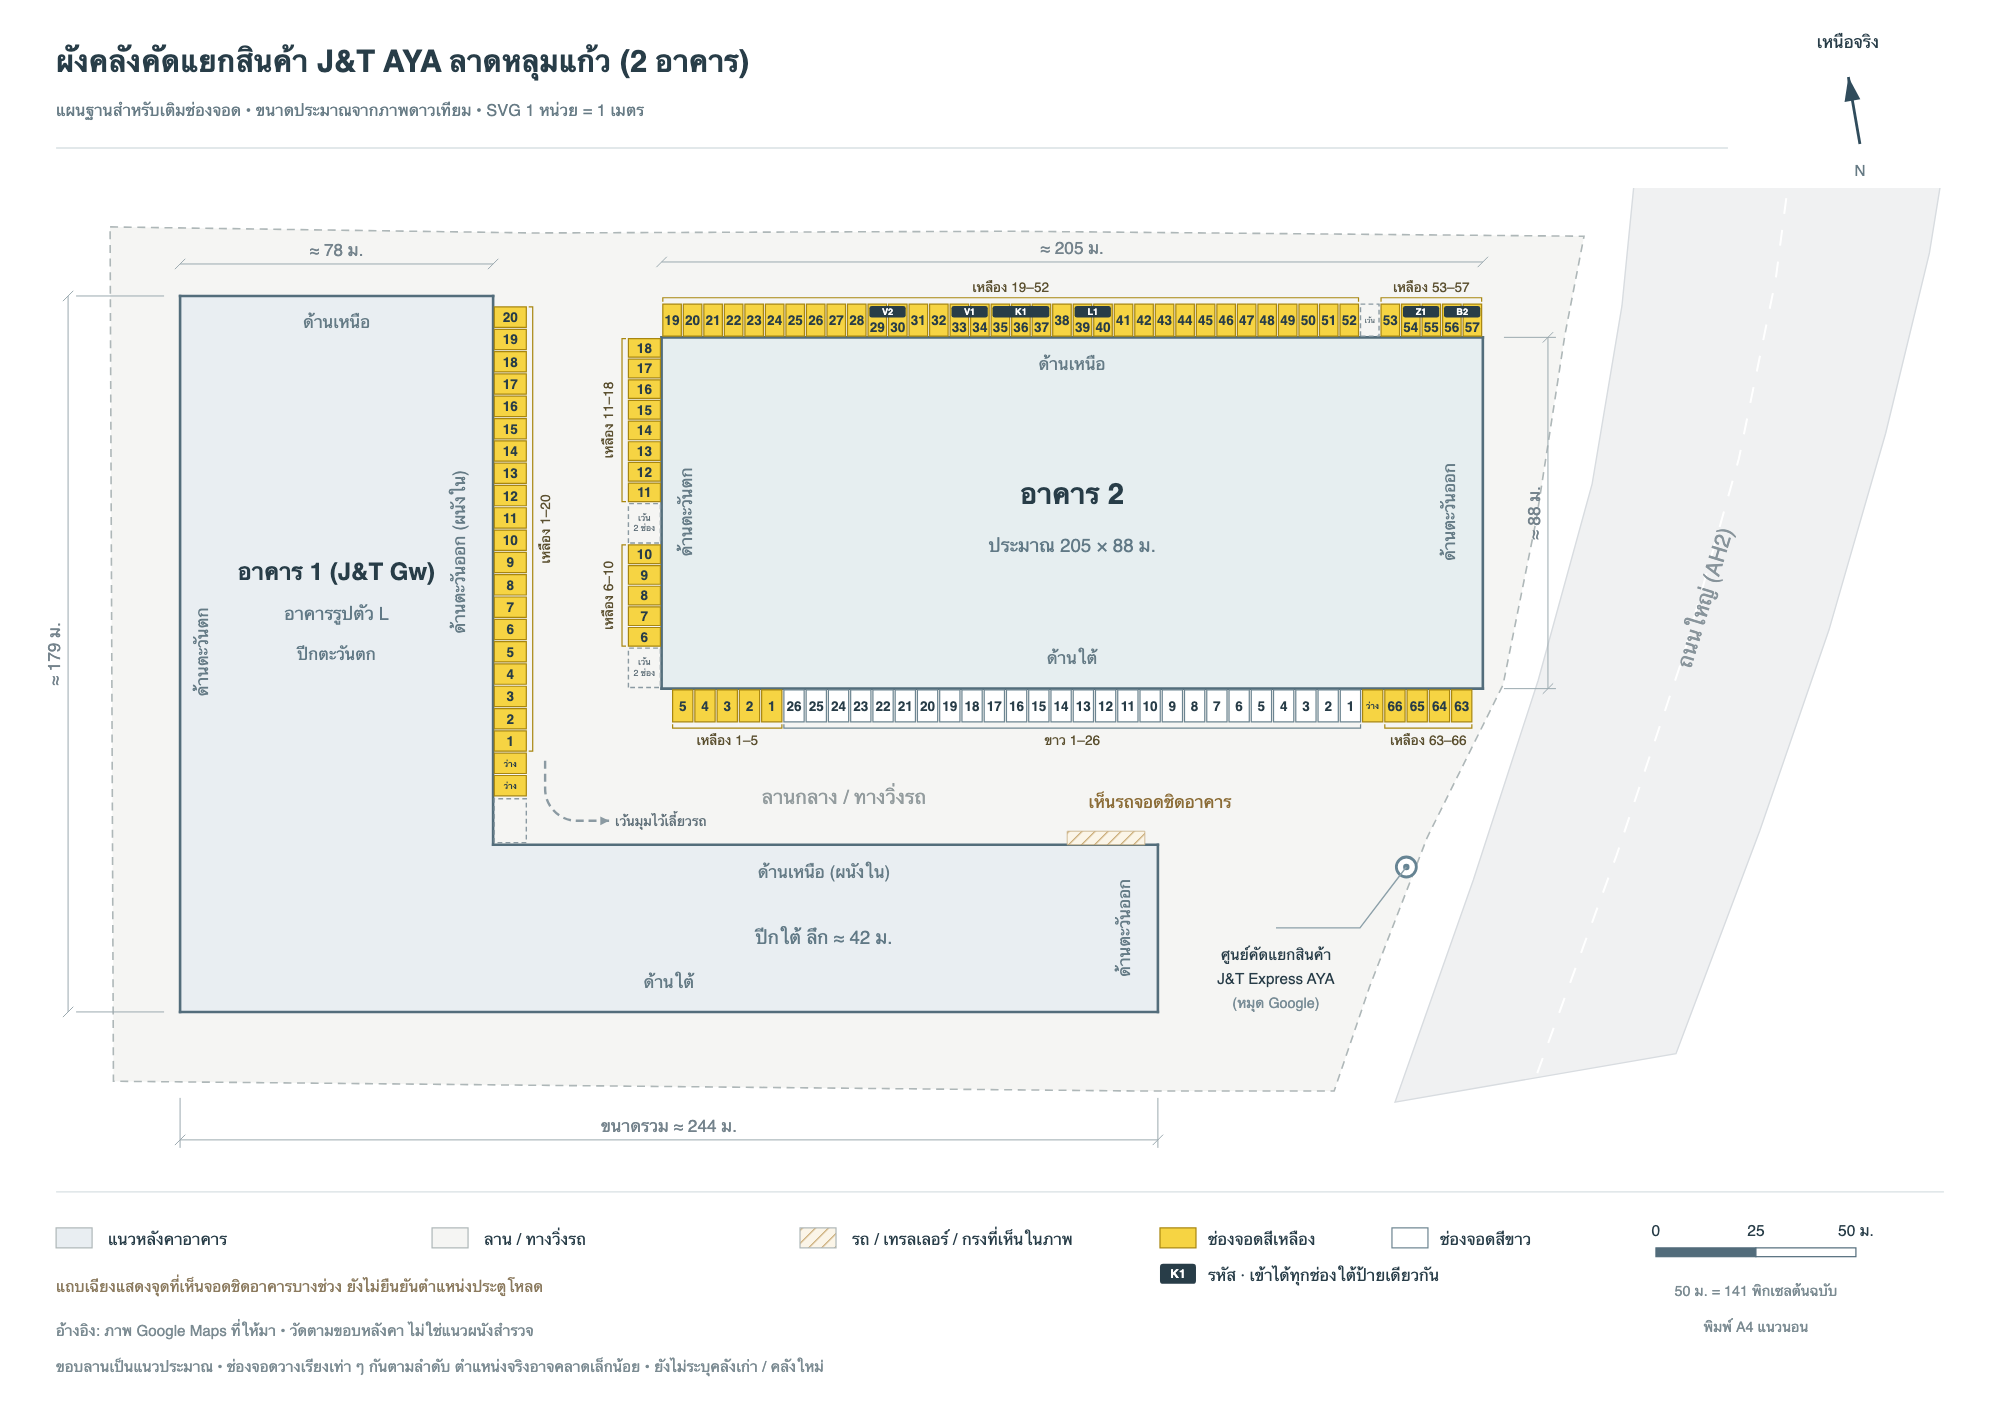
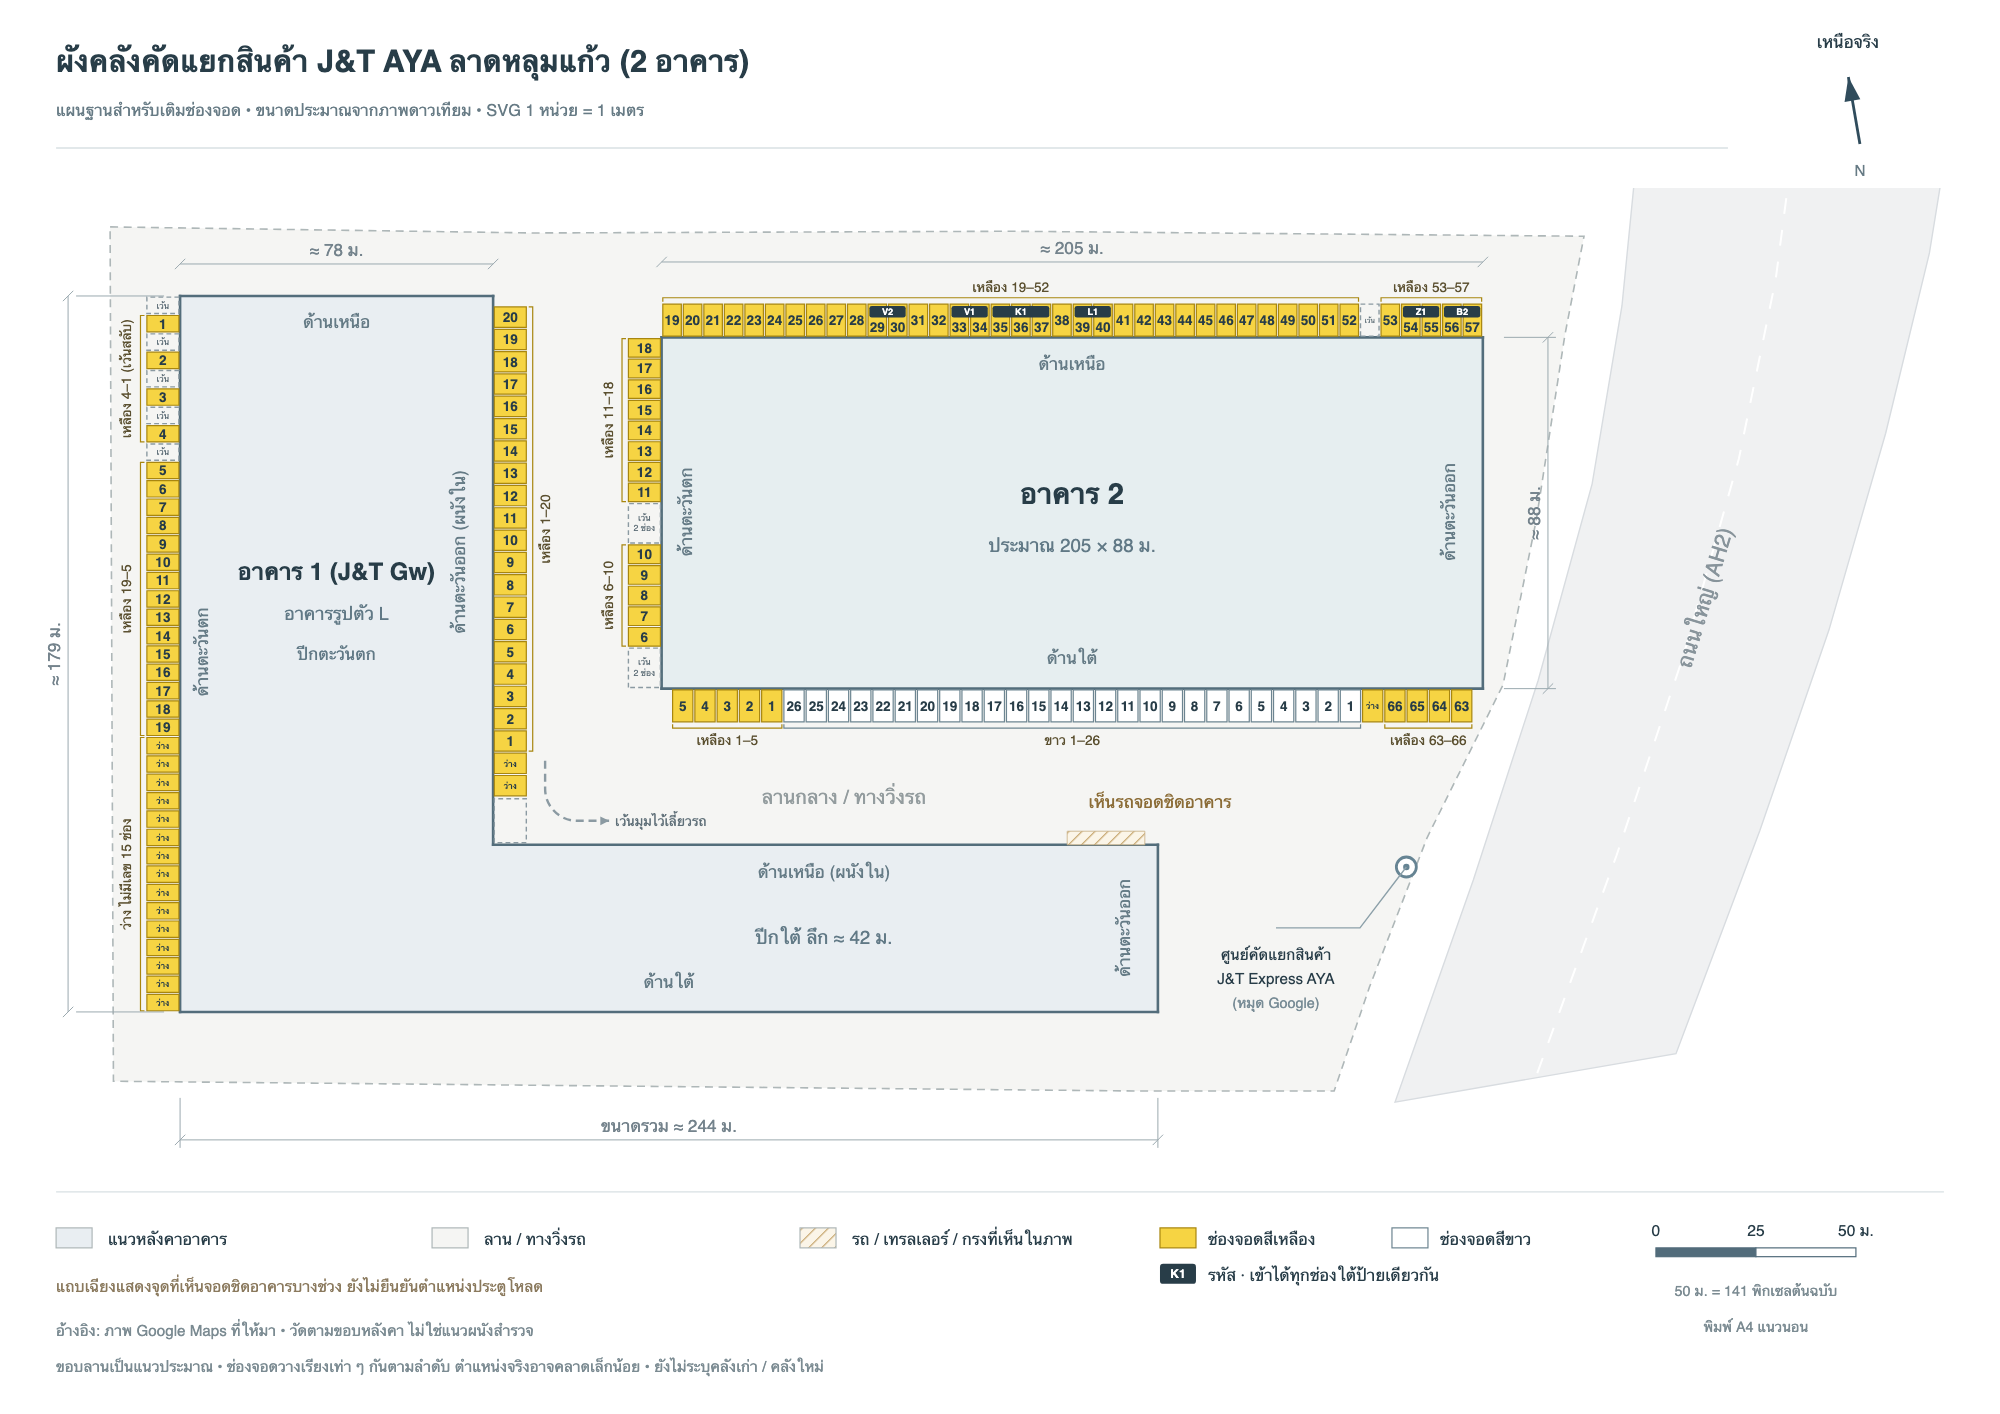
เพิ่มช่องจอดอาคาร 1 ด้านตะวันตก (จากล่าง: ว่างไม่มีเลข 15, เหลือง 19–5, เว้นสลับ 4–1) + ปุ่มขยาย

Changed region(s): [[0.062, 0.2178, 0.093, 0.7157]]

diff --git a/map.html b/map.html
@@ -40,12 +40,13 @@ h1{margin:4px 0 2px;font-size:24px;line-height:1.3}
     <button type="button" class="btn primary zoomTo" data-x="0.32" data-y="0.37">ขยาย: อาคาร 2 ด้านตะวันตก</button>
     <button type="button" class="btn primary zoomTo" data-x="0.54" data-y="0.22">ขยาย: อาคาร 2 ด้านเหนือ</button>
     <button type="button" class="btn primary zoomTo" data-x="0.27" data-y="0.40">ขยาย: อาคาร 1 ด้านตะวันออก</button>
+    <button type="button" class="btn primary zoomTo" data-x="0.08" data-y="0.46">ขยาย: อาคาร 1 ด้านตะวันตก</button>
     <button type="button" class="btn" id="fitBtn" hidden>ย่อ</button>
     <a class="btn" href="plan.svg">เปิดภาพเต็ม</a>
     <a class="btn" href="report.html">รายงานรถทอย</a>
   </div>
 </div>
-<div class="viewer" id="viewer"><img src="plan.svg" alt="ผังอาคาร 1 และอาคาร 2 พร้อมช่องจอดด้านใต้ ด้านตะวันตก และด้านเหนืออาคาร 2 และด้านตะวันออกอาคาร 1"></div>
+<div class="viewer" id="viewer"><img src="plan.svg" alt="ผังอาคาร 1 และอาคาร 2 พร้อมช่องจอดด้านใต้ ด้านตะวันตก และด้านเหนืออาคาร 2 และด้านตะวันออก ด้านตะวันตกอาคาร 1"></div>
 <div class="wrap"><p class="note">เลขช่องซ้ำได้ แยกด้วยสีพื้น (เหลือง / ขาว) · ช่องวางเรียงเท่า ๆ กัน ตำแหน่งจริงอาจคลาดเล็กน้อย</p></div>
 <script>
 const v = document.getElementById("viewer"), fit = document.getElementById("fitBtn");

diff --git a/slots.js b/slots.js
@@ -5,7 +5,7 @@
   const API = "https://urbvwplaoznyhvcsvore.supabase.co/rest/v1";
   const KEY = "sb_publishable_Vudb-REBewSsT9BWbTf1zA_8pLvwgqQ"; // คีย์สาธารณะ อ่านได้ทุกคน เขียนได้แค่ผ่านฟังก์ชัน jt_set_parking_slot
   const POLL_MS = 10000;
-  const BUILDINGS = {"b2-south": "อาคาร 2 ด้านใต้", "b2-west": "อาคาร 2 ด้านตะวันตก", "b2-north": "อาคาร 2 ด้านเหนือ", "b1-inner-east": "อาคาร 1 ด้านตะวันออก"};
+  const BUILDINGS = {"b2-south": "อาคาร 2 ด้านใต้", "b2-west": "อาคาร 2 ด้านตะวันตก", "b2-north": "อาคาร 2 ด้านเหนือ", "b1-inner-east": "อาคาร 1 ด้านตะวันออก", "b1-west": "อาคาร 1 ด้านตะวันตก"};
   const COLORS = {yellow: "เหลือง", white: "ขาว"};
 
   const viewer = document.getElementById("viewer");
